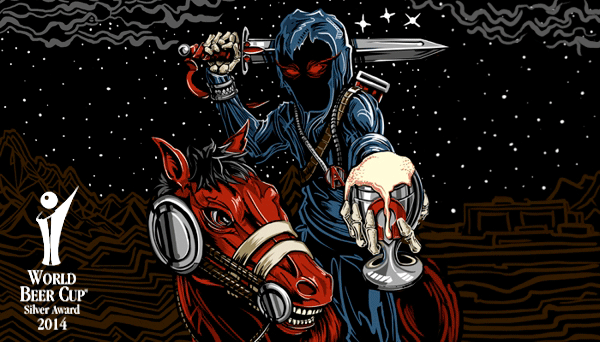
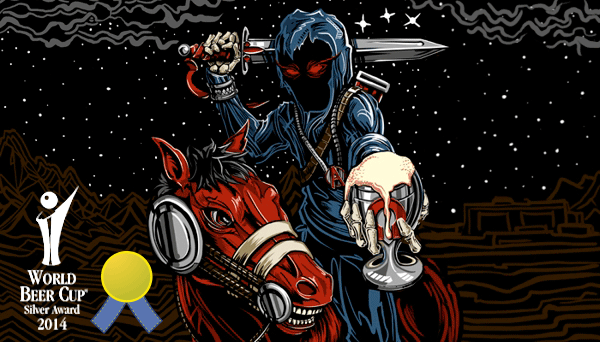
Added awards to photo
Yes

Changed region(s): [[0.15, 0.731, 0.27, 0.9942]]

diff --git a/beer.html b/beer.html
@@ -12,7 +12,7 @@
   <h1 class="text-center">6th seal </h1>
   <h3 class="subtitle text-center"> Chocolate Stout </h3>
   <hr>
-  <img src="img/sixth-seal.jpg">
+  <img src="img/sixth-seal-award.png">
   <p>
 <span>A rich sweet chocolate stout fermented with
 cacao nibs to enhance the rich chocolate presence.</span><span> Nose includes chocolate,
